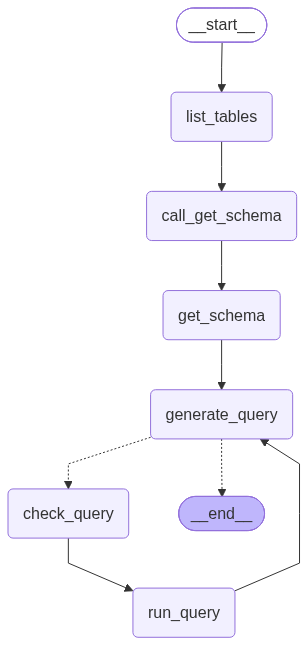
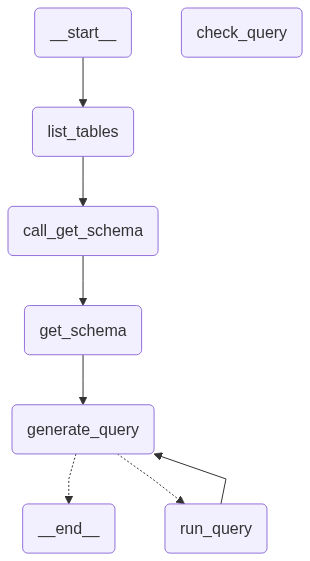
added human-in-the-loop for langgraph sql agent

diff --git a/langgraph_sql_agent.py b/langgraph_sql_agent.py
@@ -1,6 +1,7 @@
 import pathlib
 import requests
 import sqlite3
+import json
 
 from dotenv import load_dotenv
 from typing import Literal
@@ -8,9 +9,11 @@ from typing import Literal
 from langchain.chat_models import init_chat_model
 from langchain.tools import tool
 from langchain.messages import AIMessage
+from langgraph.types import interrupt, Command
 from langchain_core.runnables import RunnableConfig
 from langgraph.graph import START, END, MessagesState, StateGraph
 from langgraph.prebuilt import ToolNode
+from langgraph.checkpoint.memory import InMemorySaver
 
 load_dotenv()
 
@@ -129,7 +132,39 @@ get_schema_tool = next(tool for tool in tools if tool.name == "sql_db_schema")
 get_schema_node = ToolNode([get_schema_tool], name="get_schema")
 
 run_query_tool = next(tool for tool in tools if tool.name == "sql_db_query")
-run_query_node = ToolNode([run_query_tool], name="run_query")
+# run_query_node = ToolNode([run_query_tool], name="run_query")
+
+@tool(
+    run_query_tool.name,
+    description=run_query_tool.description,
+    args_schema=run_query_tool.args_schema
+)
+def run_query_tool_with_interrupt(config: RunnableConfig, **tool_input):
+    request = {
+        "action": run_query_tool.name,
+        "args": tool_input,
+        "description": "Please review the tool call",
+    }
+
+    response = interrupt([request])
+
+    # approve the tool call
+    if response["type"] == "accept":
+        tool_response = run_query_tool.invoke(tool_input, config)
+    # update tool call args
+    elif response["type"] == "edit":
+        tool_input = response["args"]["args"]
+        tool_response = run_query_tool.invoke(tool_input, config)
+    # respond to the LLM with user feedback
+    elif response["type"] == "response":
+        user_feedback = response["args"]
+        tool_response = user_feedback
+    else:
+        raise ValueError(f"Unsupported interrupt response type: {response['type']}")
+
+    return tool_response
+
+run_query_node = ToolNode([run_query_tool_with_interrupt], name="run_query")
 
 def list_tables(state: MessagesState):
     tool_call = {
@@ -215,12 +250,19 @@ def check_query(state: MessagesState):
 
     return {"messages": [response]}
 
-def should_continue(state: MessagesState) -> Literal[END, "check_query"]:
+# def should_continue(state: MessagesState) -> Literal[END, "check_query"]:
+#     messages = state["messages"]
+#     last_message = messages[-1]
+#     if not last_message.tool_calls:
+#         return END
+#     return "check_query"
+
+def should_continue(state: MessagesState) -> Literal[END, "run_query"]:
     messages = state["messages"]
     last_message = messages[-1]
     if not last_message.tool_calls:
         return END
-    return "check_query"
+    return "run_query"
 
 builder = StateGraph(MessagesState)
 builder.add_node(list_tables)
@@ -238,24 +280,44 @@ builder.add_conditional_edges(
     "generate_query",
     should_continue
 )
-builder.add_edge("check_query", "run_query")
+# builder.add_edge("check_query", "run_query")
 builder.add_edge("run_query", "generate_query")
 
-agent = builder.compile()
+checkpointer = InMemorySaver()
+agent = builder.compile(checkpointer=checkpointer)
 
 import pathlib
 
 pathlib.Path("graph.png").write_bytes(agent.get_graph().draw_mermaid_png())
 
 question = "Which genre on average has the longest tracks?"
+config = {"configurable": {"thread_id": "1"}}
 
 stream = agent.stream_events(
     {"messages": [{"role": "user", "content": question}]},
+    config,
     version="v3",
 )
 
 for message in stream.messages:
     for token in message.text:
         print(token, end="", flush=True)
+if stream.interrupted:
+    action = stream.interrupts[0]
+    print("INTERUPTED: ")
+    for request in action.value:
+        print(json.dumps(request, indent=2))
+
+    print("=====RESUME=====")
+    stream = agent.stream_events(
+        Command(resume={"type": "accept"}),
+        # Command(resume={"type": "edit", "args": {"query": "..."}}),
+        config,
+        version="v3",
+    )
+    for message in stream.messages:
+        for token in message.text:
+            print(token, end="", flush=True)
+
 
 final_state = stream.output
